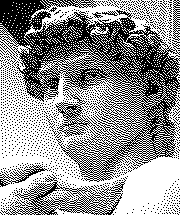
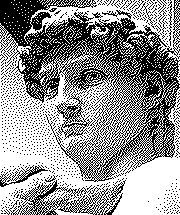
Three matrixes
- Floyd Steinberg 2 x 3
- 3 x 4
- 3 x 5

diff --git a/algorithm/helper.go b/algorithm/helper.go
@@ -65,11 +65,7 @@ func DitheringMatrix2x3_1(a *common.Array) *common.Array {
 		for y := 0; y < arr.Height; y++ {
 			oldPixel := arr.Array[x][y]
 
-			if oldPixel < 128 {
-				arr.Array[x][y] = 0
-			} else {
-				arr.Array[x][y] = 255
-			}
+			arr.Array[x][y] = GetClosestColor(oldPixel)
 
 			quantError := oldPixel - arr.Array[x][y]
 
@@ -87,9 +83,7 @@ func DitheringMatrix2x3_1(a *common.Array) *common.Array {
 			}
 		}
 	}
-
 	return arr
-
 }
 
 // Start position: Left Top
@@ -103,14 +97,13 @@ func DitheringMatrix2x3_2(a *common.Array) *common.Array {
 		for x := 0; x < arr.Width; x++ {
 			oldPixel := arr.Array[x][y]
 
-			if oldPixel < 128 {
-				arr.Array[x][y] = 0
-			} else {
-				arr.Array[x][y] = 255
-			}
+			arr.Array[x][y] = GetClosestColor(oldPixel)
 
 			quantError := oldPixel - arr.Array[x][y]
 
+			if x+1 < arr.Width {
+				arr.Array[x+1][y] += int32(float64(quantError) * (7.0 / 16.0))
+			}
 			if y > 0 {
 				if x > 0 {
 					arr.Array[x-1][y-1] += int32(float64(quantError) * (3.0 / 16.0))
@@ -120,14 +113,112 @@ func DitheringMatrix2x3_2(a *common.Array) *common.Array {
 					arr.Array[x+1][y-1] += int32(float64(quantError) * (1.0 / 16.0))
 				}
 			}
+		}
+	}
+	return arr
+}
+
+// Start position: Left Top
+// Dither order: Left to right; continue with next row
+// Matrix:
+//  X  P  4  1
+//  1  4  1
+//     1
+func DitheringMatrix3x4(a *common.Array) *common.Array {
+	arr := common.CloneArray(a)
+	for y := arr.Height - 1; y >= 0; y-- {
+		for x := 0; x < arr.Width; x++ {
+			oldPixel := arr.Array[x][y]
+
+			arr.Array[x][y] = GetClosestColor(oldPixel)
+
+			quantError := oldPixel - arr.Array[x][y]
+
 			if x+1 < arr.Width {
-				arr.Array[x+1][y] += int32(float64(quantError) * (7.0 / 16.0))
+				arr.Array[x+1][y] += int32(float64(quantError) * (4.0 / 12.0))
+			}
+			if x+2 < arr.Width {
+				arr.Array[x+2][y] += int32(float64(quantError) * (1.0 / 12.0))
+			}
+			if y > 0 && x > 0 {
+				arr.Array[x-1][y-1] += int32(float64(quantError) * (1.0 / 12.0))
+			}
+			if y > 0 {
+				arr.Array[x][y-1] += int32(float64(quantError) * (4.0 / 12.0))
+			}
+			if y > 0 && x+1 < arr.Width {
+				arr.Array[x+1][y-1] += int32(float64(quantError) * (1.0 / 12.0))
+			}
+			if y > 1 {
+				arr.Array[x][y-2] += int32(float64(quantError) * (1.0 / 12.0))
 			}
 		}
 	}
-
 	return arr
+}
 
+// Start position: Left Top
+// Dither order: Left to right; continue with next row
+// Matrix:
+//  X  X  P  8  4
+//  2  4  8  4  2
+//  1  2  4  2  1
+func DitheringMatrix3x5(a *common.Array) *common.Array {
+	arr := common.CloneArray(a)
+	for y := arr.Height - 1; y >= 0; y-- {
+		for x := 0; x < arr.Width; x++ {
+			oldPixel := arr.Array[x][y]
+
+			arr.Array[x][y] = GetClosestColor(oldPixel)
+
+			quantError := oldPixel - arr.Array[x][y]
+
+			if x+1 < arr.Width {
+				arr.Array[x+1][y] += int32(float64(quantError) * (8.0 / 42.0))
+			}
+			if x+2 < arr.Width {
+				arr.Array[x+2][y] += int32(float64(quantError) * (4.0 / 42.0))
+			}
+			if y > 0 {
+				if x > 1 {
+					arr.Array[x-2][y-1] += int32(float64(quantError) * (2.0 / 42.0))
+				}
+				if x > 0 {
+					arr.Array[x-1][y-1] += int32(float64(quantError) * (4.0 / 42.0))
+				}
+				arr.Array[x][y-1] += int32(float64(quantError) * (8.0 / 42.0))
+				if x+1 < arr.Width {
+					arr.Array[x+1][y-1] += int32(float64(quantError) * (4.0 / 42.0))
+				}
+				if x+2 < arr.Width {
+					arr.Array[x+2][y-1] += int32(float64(quantError) * (2.0 / 42.0))
+				}
+			}
+			if y > 1 {
+				if x > 1 {
+					arr.Array[x-2][y-2] += int32(float64(quantError) * (1.0 / 42.0))
+				}
+				if x > 0 {
+					arr.Array[x-1][y-2] += int32(float64(quantError) * (2.0 / 42.0))
+				}
+				arr.Array[x][y-2] += int32(float64(quantError) * (4.0 / 42.0))
+				if x+1 < arr.Width {
+					arr.Array[x+1][y-2] += int32(float64(quantError) * (2.0 / 42.0))
+				}
+				if x+2 < arr.Width {
+					arr.Array[x+2][y-2] += int32(float64(quantError) * (1.0 / 42.0))
+				}
+			}
+		}
+	}
+	return arr
+}
+
+func GetClosestColor(color int32) int32 {
+	if color < 128 {
+		return 0
+	}
+	return 255
 }
 
 func CalculateGray(red, green, blue uint8) uint32 {

diff --git a/main.go b/main.go
@@ -53,7 +53,9 @@ func main() {
 	//save gray picture
 	worker.SaveImage("result2.png", dst)
 
-	arr = algorithm.DitheringMatrix2x3_2(arr)
+	//arr = algorithm.DitheringMatrix2x3_2(arr)
+	//arr = algorithm.DitheringMatrix3x4(arr)
+	arr = algorithm.DitheringMatrix3x5(arr)
 
 	dst = algorithm.ConvertGrayArrayToImage(arr)
 
